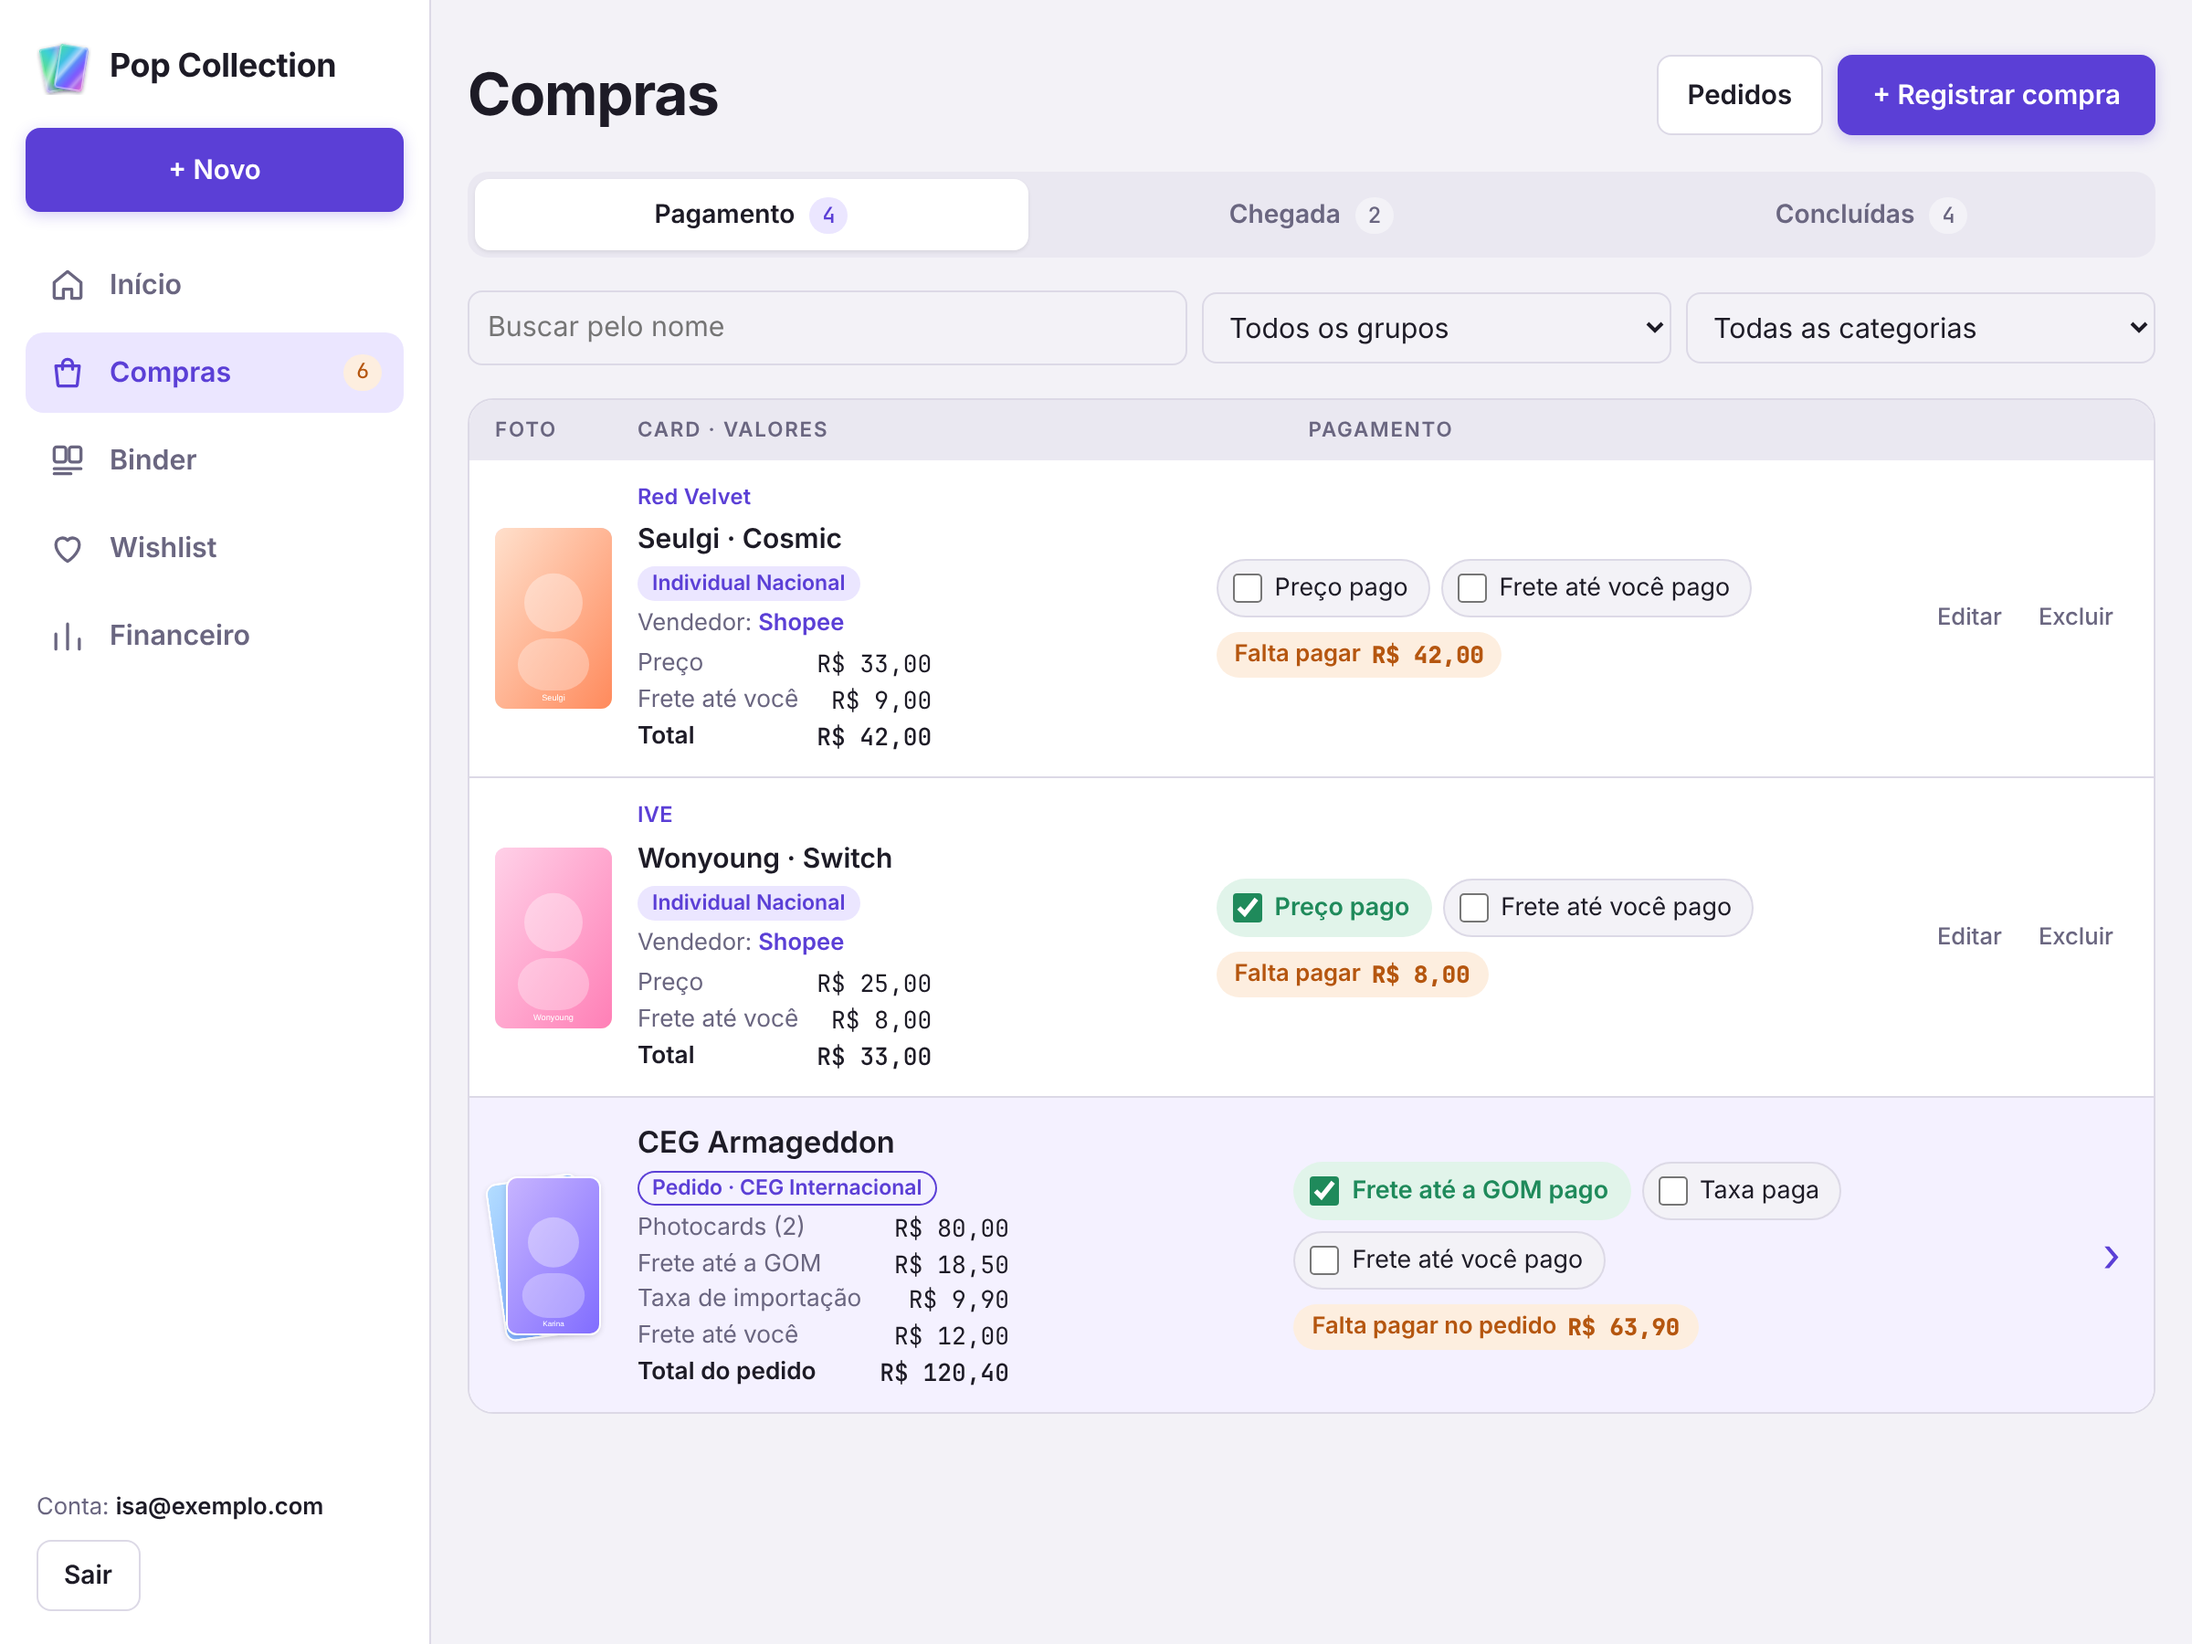
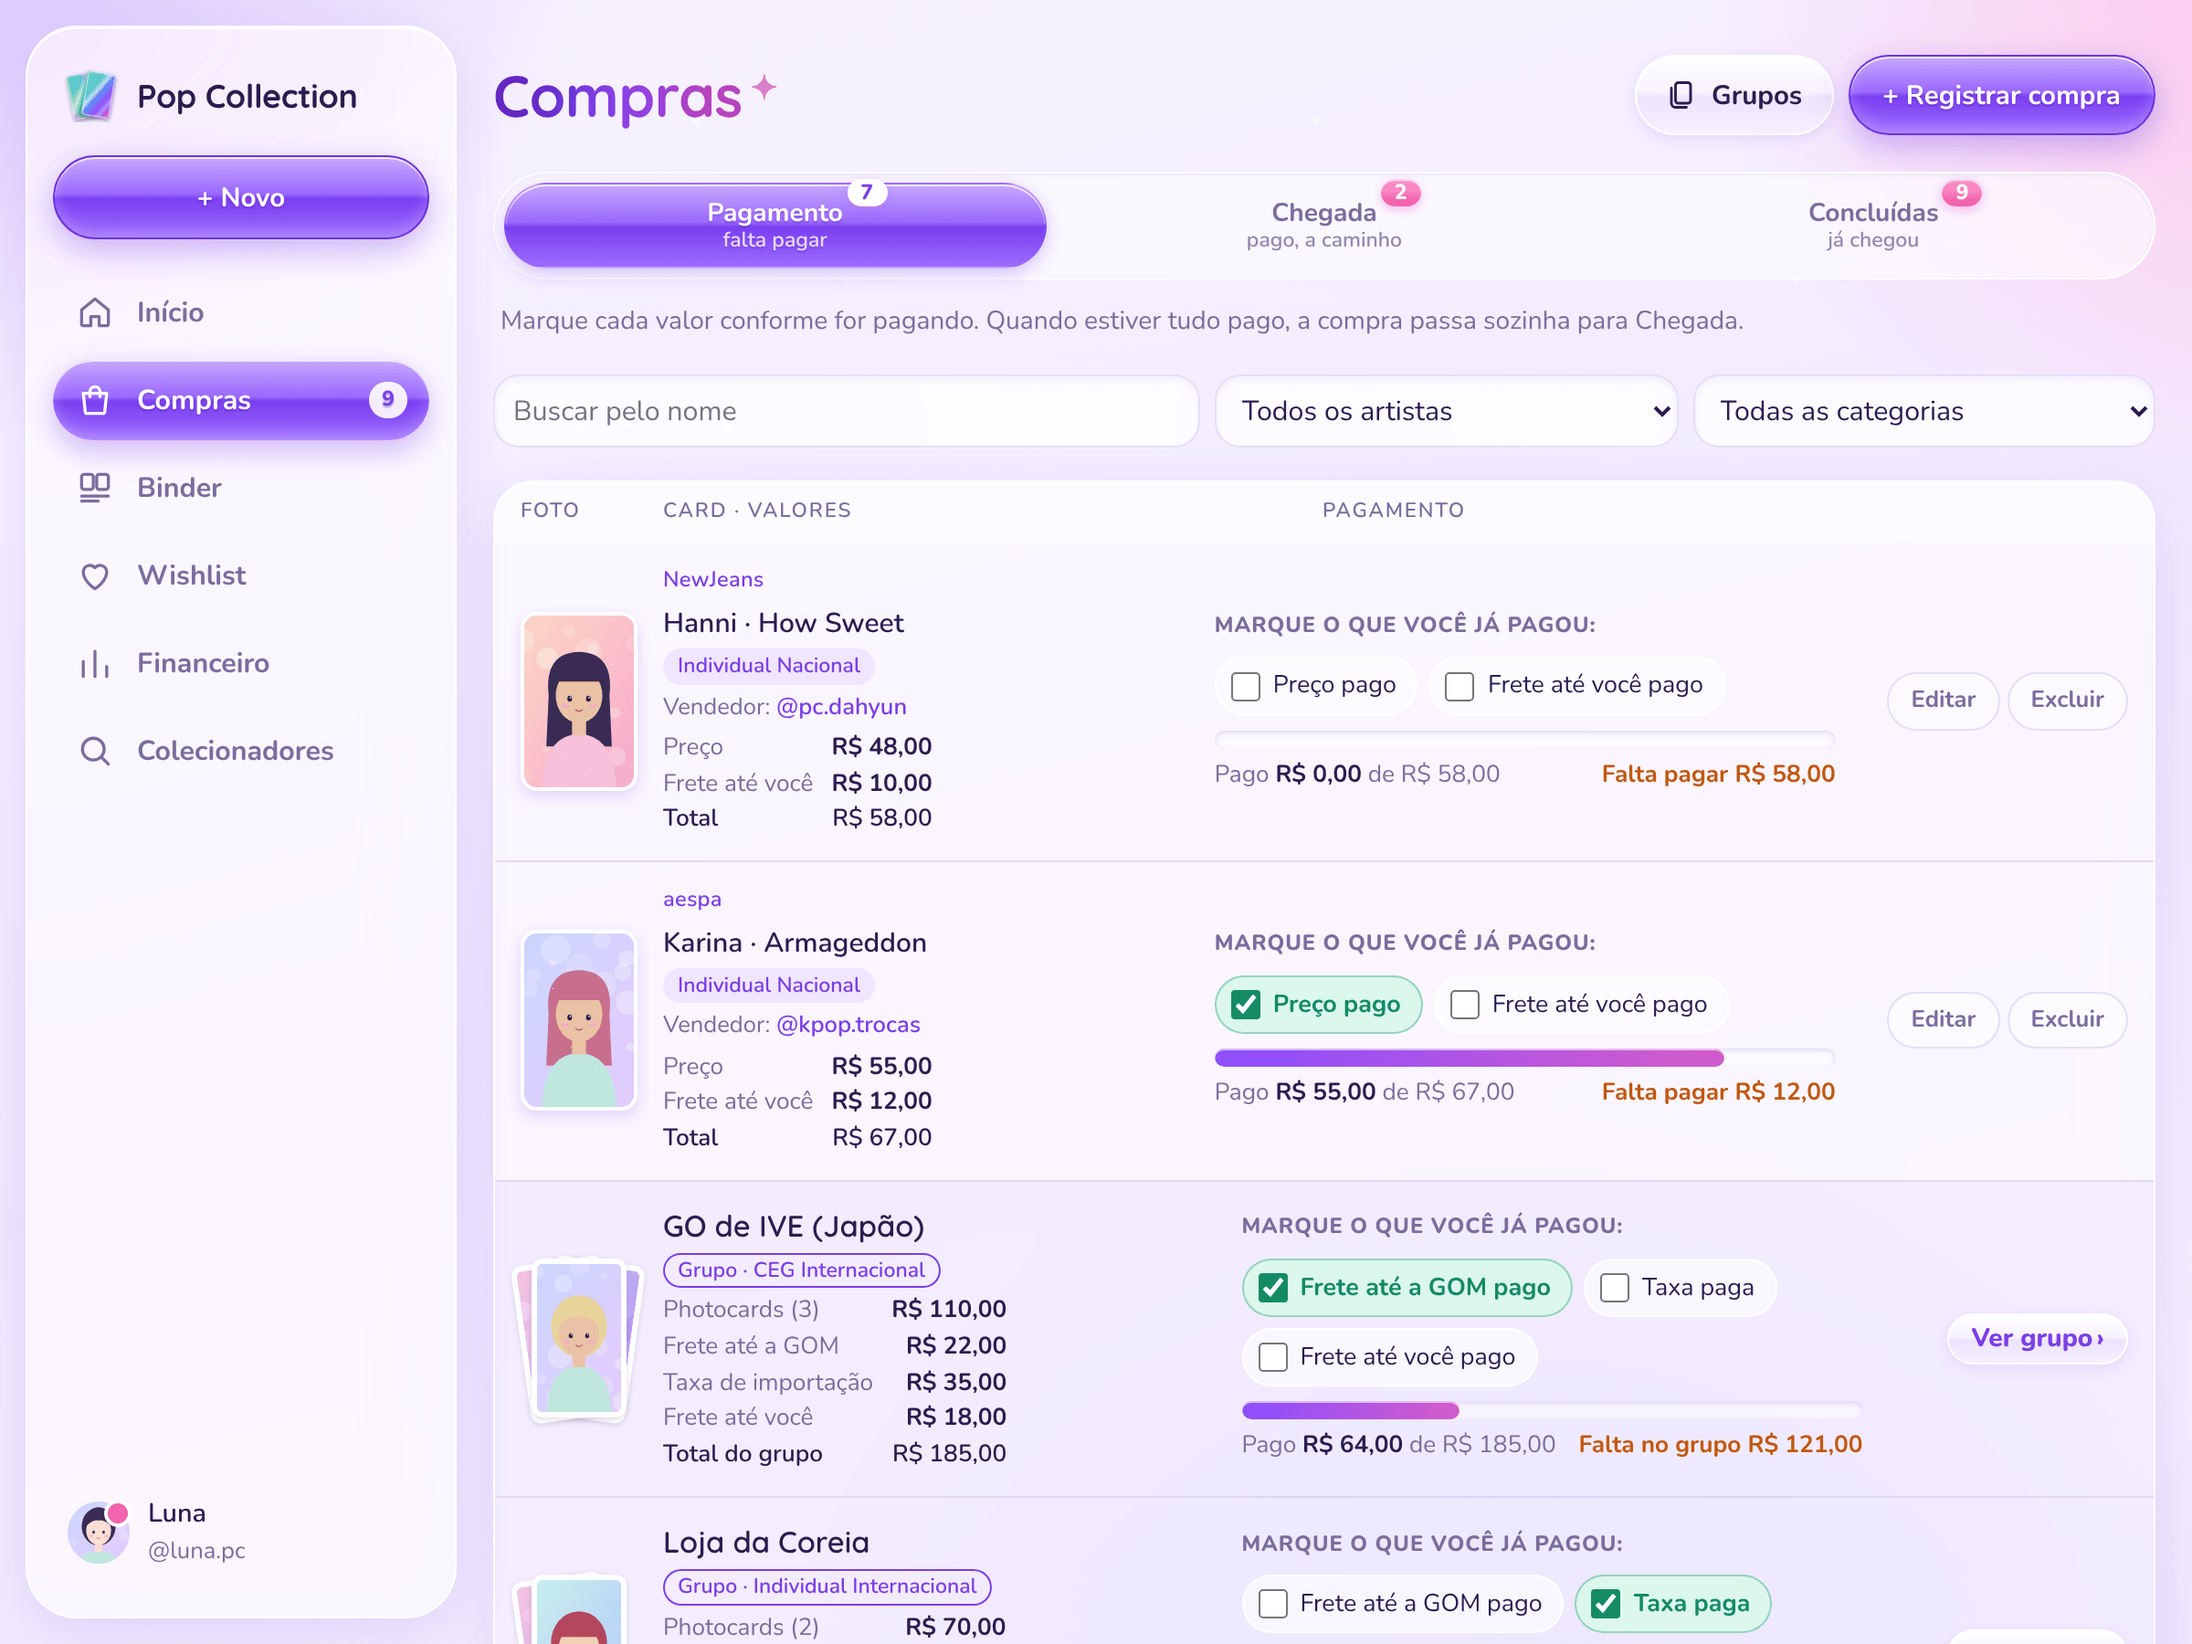
Atualiza README, telas, social preview e descrição do site com perfis, colecionadores e o visual novo

diff --git a/index.html b/index.html
@@ -4,17 +4,17 @@
 <meta charset="utf-8">
 <meta name="viewport" content="width=device-width, initial-scale=1, viewport-fit=cover">
 <title>Pop Collection</title>
-<meta name="description" content="Controle as compras, os pagamentos, a chegada, a coleção e a wishlist dos seus photocards.">
+<meta name="description" content="Controle as compras, os pagamentos e a chegada dos seus photocards, monte o Binder e a Wishlist e siga outros colecionadores.">
 <meta name="theme-color" content="#f3eeff">
 <meta property="og:type" content="website">
 <meta property="og:locale" content="pt_BR">
 <meta property="og:title" content="Pop Collection">
-<meta property="og:description" content="Controle as compras, os pagamentos, a chegada, a coleção e a wishlist dos seus photocards.">
+<meta property="og:description" content="Controle as compras, os pagamentos e a chegada dos seus photocards, monte o Binder e a Wishlist e siga outros colecionadores.">
 <meta property="og:url" content="https://renokkj.github.io/pop-collection/">
 <meta property="og:image" content="https://renokkj.github.io/pop-collection/docs/social-preview.png">
 <meta property="og:image:width" content="1280">
 <meta property="og:image:height" content="640">
-<meta property="og:image:alt" content="Pop Collection: tela inicial do app no computador e no celular">
+<meta property="og:image:alt" content="Pop Collection: perfil de colecionador no computador e tela inicial no celular">
 <meta name="twitter:card" content="summary_large_image">
 <link rel="icon" href="icons/logo.svg" type="image/svg+xml">
 <link rel="icon" href="icons/favicon-32.png" sizes="32x32" type="image/png">
@@ -34,7 +34,7 @@
     <div class="cards-deco" aria-hidden="true"><span></span><span></span><span></span></div>
     <div>
       <h1>Pop Collection</h1>
-      <p>Controle as compras, os pagamentos, a chegada, a coleção e a wishlist dos seus photocards.</p>
+      <p>Controle as compras, os pagamentos e a chegada dos seus photocards, monte o Binder e a Wishlist e siga outros colecionadores.</p>
     </div>
     <nav class="tabs" role="tablist">
       <button type="button" role="tab" data-mode="login" aria-selected="true">Entrar</button>

diff --git a/README.md b/README.md
@@ -4,7 +4,7 @@
 
 # Pop Collection
 
-Controle as compras, os pagamentos, a chegada, a coleção e a wishlist dos seus photocards.
+Controle as compras, os pagamentos e a chegada dos seus photocards, monte o Binder e a Wishlist e siga outros colecionadores.
 
 [![Abrir o app](https://img.shields.io/badge/abrir_o_app-5b3fd6?style=for-the-badge)](https://renokkj.github.io/pop-collection/)
 
@@ -19,17 +19,17 @@ Controle as compras, os pagamentos, a chegada, a coleção e a wishlist dos seus
 <img src="docs/app-computador.png" alt="Tela inicial do Pop Collection no computador" width="68%">&nbsp;
 <img src="docs/app-celular.png" alt="Tela inicial do Pop Collection no celular" width="24%">
 
-<sub>Telas com dados de teste.</sub>
+<sub>Telas com dados de exemplo.</sub>
 
 </div>
 
 ## Sobre o projeto
 
-Criei o Pop Collection para resolver um problema meu: acompanhar quanto já paguei, o que falta pagar e quais photocards ainda estão a caminho. Depois ele virou também o lugar da minha coleção (o Binder) e dos cards que eu quero ter (a Wishlist). Foi o primeiro projeto que idealizei do zero, da ideia ao app publicado.
+Criei o Pop Collection para resolver um problema meu: acompanhar quanto já paguei, o que falta pagar e quais photocards ainda estão a caminho. Depois ele virou também o lugar da minha coleção (o Binder) e dos cards que eu quero ter (a Wishlist), e ganhou perfis para ver a coleção de outras pessoas e seguir quem coleciona os mesmos grupos. Foi o primeiro projeto que idealizei do zero, da ideia ao app publicado.
 
 ## O que o app faz
 
-O app tem cinco seções: **Início**, **Compras**, **Binder**, **Wishlist** e **Financeiro**. No computador elas ficam na barra lateral; no celular, na barra de baixo.
+O app tem cinco seções: **Início**, **Compras**, **Binder**, **Wishlist** e **Financeiro**, além do seu **Perfil** e da busca de **Colecionadores**. No computador tudo fica na barra lateral; no celular, as seções ficam na barra de baixo, e a busca e o perfil, no topo.
 
 ### Compras
 
@@ -38,8 +38,8 @@ O app tem cinco seções: **Início**, **Compras**, **Binder**, **Wishlist** e *
 - **Categorias:** Individual ou CEG, Nacional ou Internacional. O formulário mostra só os fretes e a taxa de importação de cada categoria. Na CEG, você informa só a sua parte do que é dividido.
 - **Presente:** um card que você ganhou não tem custo e vai direto para a Chegada.
 - **Grupos:** os cards comprados juntos ficam num grupo, e os fretes e a taxa contam uma vez só. Registrar dois ou mais cards de uma vez cria o grupo sozinho. Na página do grupo dá para registrar um card comprado depois, trazer um card já cadastrado, tirar um card do grupo e editar o nome, a categoria e os fretes.
-- **Três abas:** Pagamento (marque cada valor pago), Chegada (com tudo pago, aguarde e toque em "Chegou ✓") e Concluídas.
-- **Busca e filtros** por nome, grupo de K-pop e categoria.
+- **Três etapas:** Pagamento (falta pagar), Chegada (pago, a caminho) e Concluídas (já chegou). Cada etapa explica o que fazer nela, e a compra passa sozinha para a próxima.
+- **Busca e filtros** por nome, artista ("Todos os artistas") e categoria.
 
 ### Binder
 
@@ -73,6 +73,7 @@ O app tem cinco seções: **Início**, **Compras**, **Binder**, **Wishlist** e *
 - **Contas individuais:** seus cards, valores e compras só você edita e vê; os outros veem apenas o que você deixar visível no perfil.
 - **Botão + no celular:** em Compras, no Binder e na Wishlist ele abre o cadastro da seção; nas outras telas, mostra as opções. No computador, o mesmo fica no "+ Novo".
 - **Recuperar a senha** pelo link "Esqueci minha senha".
+- **Visual Y2K em roxo**, com vidro, brilho e molduras nos photocards.
 - **Tema claro e escuro**, conforme o dispositivo.
 - **Instalar como app:** no celular ou no computador, adicione o site à tela inicial.
 
@@ -99,11 +100,11 @@ flowchart LR
 
 <table>
   <tr>
-    <td width="50%"><img src="docs/compras.png" alt="Compras com as abas Pagamento, Chegada e Concluídas"><br><sub><b>Compras:</b> as abas Pagamento, Chegada e Concluídas, com busca e filtros.</sub></td>
-    <td width="50%"><img src="docs/pedido.png" alt="Página de um grupo com os fretes e os cards comprados juntos"><br><sub><b>Grupo:</b> fretes e taxa uma vez só, registrar ou trazer cards e tirar do grupo.</sub></td>
+    <td width="50%"><img src="docs/compras.png" alt="Compras com as etapas Pagamento, Chegada e Concluídas"><br><sub><b>Compras:</b> as etapas Pagamento, Chegada e Concluídas, com busca e filtros.</sub></td>
+    <td width="50%"><img src="docs/grupo.png" alt="Página de um grupo com os fretes e os cards comprados juntos"><br><sub><b>Grupo:</b> fretes e taxa uma vez só, registrar ou trazer cards e tirar do grupo.</sub></td>
   </tr>
   <tr>
-    <td width="50%"><img src="docs/binder.png" alt="Binder no computador com pastas e grade de fotos"><br><sub><b>Binder:</b> pastas no topo, busca, filtro por grupo e a grade só com as fotos.</sub></td>
+    <td width="50%"><img src="docs/binder.png" alt="Binder no computador com pastas e grade de fotos"><br><sub><b>Binder:</b> pastas no topo, busca, filtro por artista e a grade só com as fotos.</sub></td>
     <td width="50%"><img src="docs/wishlist.png" alt="Wishlist com pastas e os cards desejados"><br><sub><b>Wishlist:</b> os cards que você quer ter, com pastas próprias.</sub></td>
   </tr>
   <tr>
@@ -111,17 +112,28 @@ flowchart LR
     <td width="50%"><img src="docs/cadastro-compra.png" alt="Janela de registrar compra"><br><sub><b>Registrar compra:</b> categoria, grupo, data da compra, pasta no Binder e os dados de cada card.</sub></td>
   </tr>
   <tr>
-    <td colspan="2" align="center"><img src="docs/celular-binder.png" alt="Binder no celular" width="24%">&nbsp;<img src="docs/celular-adquiri.png" alt="Card da Wishlist com as opções de Adquiri este photocard" width="24%">&nbsp;<img src="docs/celular-pedido.png" alt="Página do grupo no celular" width="24%"><br><sub><b>Celular:</b> o Binder, o "Adquiri este photocard" da Wishlist e a página de um grupo.</sub></td>
+    <td width="50%"><img src="docs/perfil.png" alt="Perfil com foto, @username, seguidores e o Binder em carrossel"><br><sub><b>Perfil:</b> foto, @username, seguidores, grupos favoritos e o Binder e a Wishlist em carrossel.</sub></td>
+    <td width="50%"><img src="docs/perfil-outro.png" alt="Perfil de outra colecionadora com o botão Seguindo"><br><sub><b>Perfil de outra pessoa:</b> o Binder e a Wishlist que ela deixou visíveis, e o botão Seguir.</sub></td>
+  </tr>
+  <tr>
+    <td width="50%"><img src="docs/colecionadores.png" alt="Busca de colecionadores por grupo favorito"><br><sub><b>Colecionadores:</b> busca por @username, nome ou grupo favorito.</sub></td>
+    <td width="50%"><img src="docs/avisos.png" alt="Avisos de novos seguidores com Seguir de volta"><br><sub><b>Avisos:</b> quem começou a seguir você, com "Seguir de volta".</sub></td>
+  </tr>
+  <tr>
+    <td colspan="2" align="center"><img src="docs/celular-perfil.png" alt="Perfil no celular" width="24%">&nbsp;<img src="docs/celular-compras.png" alt="Compras no celular" width="24%">&nbsp;<img src="docs/celular-binder.png" alt="Binder no celular" width="24%">&nbsp;<img src="docs/celular-perfil-outro.png" alt="Perfil de outra pessoa no celular" width="24%"><br><sub><b>Celular:</b> o perfil, Compras, o Binder e o perfil de outra pessoa.</sub></td>
+  </tr>
+  <tr>
+    <td colspan="2" align="center"><img src="docs/escuro-inicio.png" alt="Início no tema escuro" width="68%"><br><sub><b>Tema escuro:</b> segue o tema do dispositivo.</sub></td>
   </tr>
 </table>
 
-<sub>Telas com dados de teste.</sub>
+<sub>Telas com dados de exemplo.</sub>
 
 ## Tecnologias
 
 | Parte | Tecnologia |
 | --- | --- |
-| Site | HTML, CSS e JavaScript puros, sem etapa de build |
+| Site | HTML, CSS e JavaScript puros, sem etapa de build; fontes Quicksand e Nunito (Google Fonts) |
 | Hospedagem | GitHub Pages (branch `main`, pasta `/ (root)`) |
 | Contas, banco e fotos | [Supabase](https://supabase.com), na região São Paulo |
 
@@ -152,9 +164,9 @@ Os totais do app somam só os cards com `kind = 'compra'`.
 
 | Arquivo | O que faz |
 | --- | --- |
-| [`index.html`](index.html) | Telas de login e do app (Início, Compras, Binder, Wishlist e Financeiro) e as janelas de cadastro, grupos, pastas e detalhes |
-| [`style.css`](style.css) | Visual (temas claro e escuro) |
-| [`app.js`](app.js) | Contas, compras, grupos, Binder, Wishlist, pastas, fotos, totais e gráficos |
+| [`index.html`](index.html) | Telas de login e do app (Início, Compras, Binder, Wishlist, Financeiro, Perfil e Colecionadores) e as janelas de cadastro, grupos, pastas, detalhes, perfil e avisos |
+| [`style.css`](style.css) | Visual Y2K em roxo, com vidro e brilho (temas claro e escuro) |
+| [`app.js`](app.js) | Contas, compras, grupos, Binder, Wishlist, pastas, fotos, totais, gráficos, perfis, seguir e avisos |
 | [`config.js`](config.js) | URL e chave `anon` do Supabase |
 | [`icons/`](icons) e [`manifest.webmanifest`](manifest.webmanifest) | Logo, ícone da aba e ícone para instalar o site como app |
 | [`supabase/schema.sql`](supabase/schema.sql) | Tabelas, regras de segurança e bucket de fotos (veja [Banco de dados](#banco-de-dados)) |
